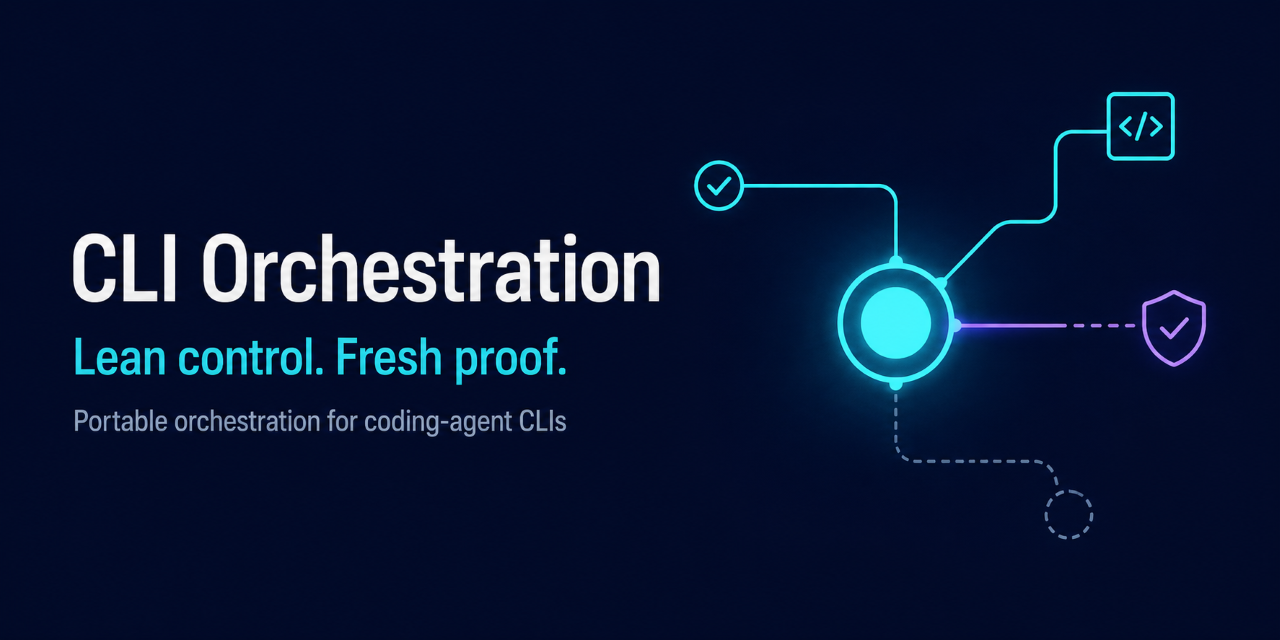
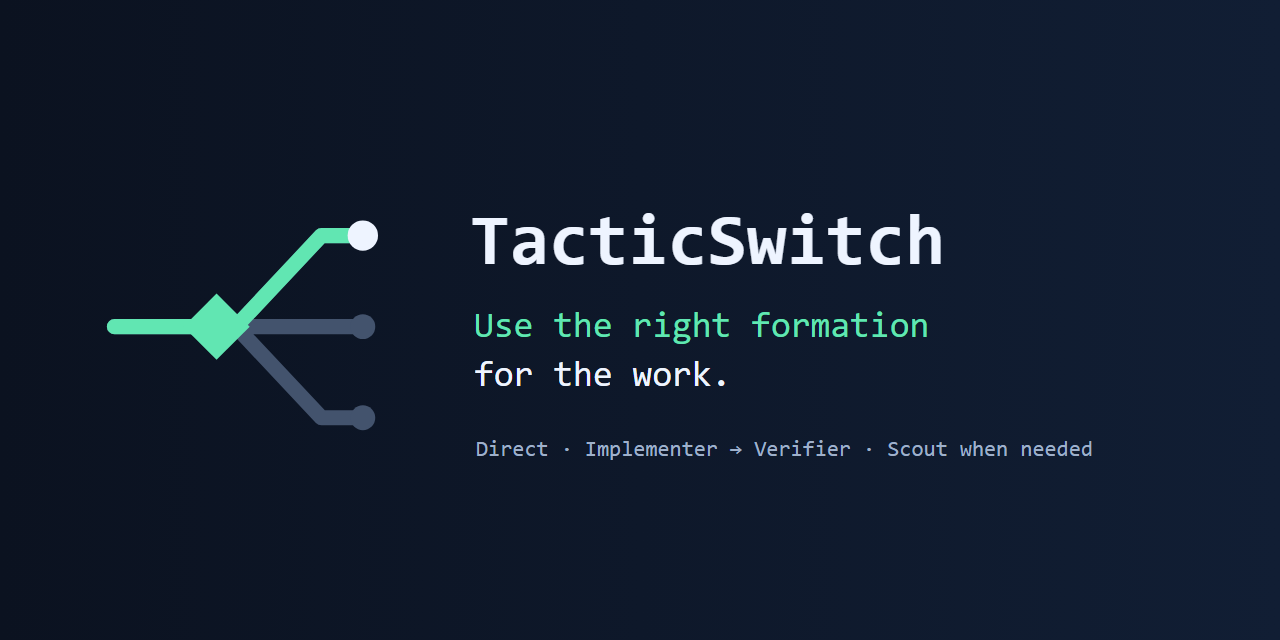
chore(brand): rebrand as TacticSwitch
Rename the public project identity and repository metadata while preserving version 2.0.0, public skill IDs, protocol compatibility, and the historical pre-rebrand release.

diff --git a/tests/test_release_surface.py b/tests/test_release_surface.py
@@ -35,8 +35,45 @@ class ReleaseSurfaceTests(unittest.TestCase):
             self.assertEqual(root.tag, "{http://www.w3.org/2000/svg}svg", svg.name)
             self.assertIn("viewBox", root.attrib, svg.name)
 
+    def test_public_identity_is_tacticswitch(self) -> None:
+        manifest = (ROOT / "manifest.json").read_text(encoding="utf-8")
+        self.assertIn('"name": "tacticswitch"', manifest)
+        for relative in ("README.md", "CONTRIBUTING.md", "docs/BRAND.md", "docs/LAUNCH.md"):
+            surface = (ROOT / relative).read_text(encoding="utf-8")
+            self.assertIn("TacticSwitch", surface, relative)
+        self.assertIn("github.com/gustavo-meilus/tacticswitch", (ROOT / "SECURITY.md").read_text(encoding="utf-8"))
+
+    def test_retired_identity_appears_only_in_explicit_history(self) -> None:
+        allowed = {
+            "CHANGELOG.md": [
+                "- Renamed the public project and package identity from CLI Orchestration to TacticSwitch while preserving public skill identifiers and protocol compatibility.",
+                "## 2.0.0 - 2026-08-20 — CLI Orchestration",
+                "## 1.0.0 - 2026-08-15 — CLI Orchestration",
+            ],
+            "docs/LAUNCH.md": [
+                "**Existing release:** `CLI Orchestration 2.0.0 — Lean control. Fresh proof.`",
+                "Tag `v2.0.0` and its GitHub release already exist as the historical pre-rebrand CLI Orchestration release. Preserve that tag, release, title, body, assets, and history unchanged.",
+            ],
+        }
+        surfaces = [
+            ROOT / relative for relative in (
+                "README.md", "CHANGELOG.md", "CONTRIBUTING.md", "SECURITY.md", "manifest.json",
+                ".github/ISSUE_TEMPLATE/bug.yml", "scripts/install.py",
+            )
+        ]
+        surfaces.extend(sorted((ROOT / "docs").glob("*.md")))
+        surfaces.extend(sorted((ROOT / "assets" / "brand").glob("*.svg")))
+        found = {}
+        for path in surfaces:
+            matches = [line for line in path.read_text(encoding="utf-8").splitlines() if "CLI Orchestration" in line]
+            if matches:
+                found[path.relative_to(ROOT).as_posix()] = matches
+        self.assertEqual(found, allowed)
+
     def test_readme_keeps_claim_limits_adjacent(self) -> None:
         readme = (ROOT / "README.md").read_text(encoding="utf-8")
+        self.assertIn("# TacticSwitch", readme)
+        self.assertIn("Use the right formation for the work.", readme)
         self.assertIn("all three adapters are **experimental**", readme)
         self.assertIn("does **not** compare completed route quality", readme)
         self.assertIn("Licensed under the [MIT License](LICENSE)", readme)

diff --git a/scripts/install.py b/scripts/install.py
@@ -230,7 +230,7 @@ def main() -> int:
                 for filename in NORMAL_AGENT_FILES:
                     write_owned_file(TEMPLATES / "codex/agents" / filename, tool_root / "agents" / filename, args.dry_run)
 
-    install_record = {"package": "cli-orchestration", "version": VERSION, "scope": args.scope, "tools": args.tools}
+    install_record = {"package": "tacticswitch", "version": VERSION, "scope": args.scope, "tools": args.tools}
     write_owned_bytes((json.dumps(install_record, indent=2) + "\n").encode(), root / ".orchestration/install.json", args.dry_run)
     print("Installation complete. Run scripts/verify_install.py with the same --scope/--tool selection.")
     return 0

diff --git a/scripts/run_route_benchmarks.py b/scripts/run_route_benchmarks.py
@@ -184,7 +184,7 @@ def main() -> int:
     if not codex:
         raise SystemExit("BLOCKED: codex CLI is unavailable")
     version = subprocess.run([codex, "--version"], text=True, capture_output=True, check=False).stdout.strip()
-    with tempfile.TemporaryDirectory(prefix="cli-orchestration-routes-") as temporary:
+    with tempfile.TemporaryDirectory(prefix="tacticswitch-routes-") as temporary:
         parent = Path(temporary)
         results = [run_route(codex, route, prompt, parent) for route, prompt in ROUTES.items()]
     payload = {

diff --git a/docs/LAUNCH.md b/docs/LAUNCH.md
@@ -2,41 +2,47 @@
 
 ## Repository metadata
 
-**Description:** Portable lean control plane for coding-agent CLIs. Direct by default; focused discovery and fresh verification only when the work justifies it.
+**Description:** Choose the minimum sufficient execution tactic for coding-agent work: direct by default, with focused discovery and fresh verification only when justified.
 
 **Topics:** `ai-agents`, `coding-agents`, `cli`, `codex-cli`, `claude-code`, `copilot-cli`, `multi-agent`, `orchestration`, `openspec`, `developer-tools`
 
 Leave homepage empty until a maintained project site exists. Export `assets/brand/social-preview.svg` to a visually inspected 1280×640 PNG, then upload it under **Settings → Social preview**; committing the source does not activate it. See [GitHub's social-preview guidance](https://docs.github.com/en/enterprise-cloud@latest/repositories/managing-your-repositorys-settings-and-features/customizing-your-repository/customizing-your-repositorys-social-media-preview).
 
-## Release copy
+## Existing historical release
 
-**Title:** `CLI Orchestration 2.0.0 — Lean control. Fresh proof.`
+**Existing release:** `CLI Orchestration 2.0.0 — Lean control. Fresh proof.`
 
-> CLI Orchestration 2.0.0 is a portable, lean control plane for coding-agent CLIs. Clear local work stays direct; material work can route through an Implementer and fresh Verifier; uncertain work can add a focused Scout. The core preserves OpenSpec and methodology ownership and fails closed when a required independent worker is unavailable. Codex, Claude Code, and Copilot CLI adapters are experimental. The current benchmark is one narrow Codex fixture, not a general performance or route-quality result.
+Tag `v2.0.0` and its GitHub release already exist as the historical pre-rebrand CLI Orchestration release. Preserve that tag, release, title, body, assets, and history unchanged.
 
-Do not create a release until final tests/checksums pass from the exact commit and repository settings are applied. [GitHub releases](https://docs.github.com/en/repositories/releasing-projects-on-github/about-releases) are tag-based deployable records.
+The TacticSwitch branding-only change keeps version `2.0.0` for package and protocol compatibility, but it creates no release or tag and does not bump the version. Any future release is a separate decision and must pass final tests/checksums from its exact commit before a new tag is created. [GitHub releases](https://docs.github.com/en/repositories/releasing-projects-on-github/about-releases) are tag-based deployable records.
 
 ## Announcement copy
 
 **Short post:**
 
-> Agent workflows often pay an orchestration tax: extra contexts, repeated reads, and review stages whether they help or not. CLI Orchestration uses the minimum sufficient topology—direct by default, fresh verification for material work, Scout only for real uncertainty. It is a portable control plane for Codex CLI, Claude Code, and Copilot CLI, with experimental adapters and honest fail-closed boundaries. I’d value feedback from maintainers on which task classes actually justify an extra context.
+> Agent workflows often use the wrong formation: one overloaded context or extra contexts, repeated reads, and review stages whether they help or not. TacticSwitch selects the minimum sufficient tactic—direct by default, fresh verification for material work, Scout only for real uncertainty. It is a portable control plane for Codex CLI, Claude Code, and Copilot CLI, with experimental adapters and honest fail-closed boundaries. I’d value feedback from maintainers on which task classes actually justify an extra context.
 
 **Long-form opening:**
 
-> I built CLI Orchestration after seeing agent workflows optimize for either one overloaded context or a mandatory committee pipeline. Clear local work stays direct; material behavior changes use one Implementer and a fresh Verifier; a Scout appears only when discovery can prevent churn. It is deliberately a pure control plane, so OpenSpec, TDD, or another task system keeps owning the development method. The adapters are experimental, and the current real benchmark is narrow: direct mode completed one Codex fixture while orchestrated routes failed closed when collaboration threads were unavailable. I’m looking for reproducible field evidence, especially cases where fresh verification changes the outcome.
+> I built TacticSwitch after seeing agent workflows optimize for either one overloaded context or a mandatory committee pipeline. Clear local work stays direct; material behavior changes use one Implementer and a fresh Verifier; a Scout appears only when discovery can prevent churn. It is deliberately a pure control plane, so OpenSpec, TDD, or another task system keeps owning the development method. The adapters are experimental, and the current real benchmark is narrow: direct mode completed one Codex fixture while orchestrated routes failed closed when collaboration threads were unavailable. I’m looking for reproducible field evidence, especially cases where fresh verification changes the outcome.
 
-## Manual publication checklist
+## Rebrand checklist
 
 - [x] Add the [MIT License](../LICENSE) with SPDX-standard license text.
-- [x] Publish the public repository at [gustavo-meilus/cli-orchestration](https://github.com/gustavo-meilus/cli-orchestration) with the description and focused [topics](https://docs.github.com/en/repositories/managing-your-repositorys-settings-and-features/customizing-your-repository/classifying-your-repository-with-topics).
+- [x] Publish the renamed public repository at [gustavo-meilus/tacticswitch](https://github.com/gustavo-meilus/tacticswitch) with the documented description and focused [topics](https://docs.github.com/en/repositories/managing-your-repositorys-settings-and-features/customizing-your-repository/classifying-your-repository-with-topics).
 - [x] Enable private vulnerability reporting and link the private report form from `SECURITY.md`.
 - [ ] Export/upload the social preview and verify a shared-link preview.
 - [x] Set `main` as default; block force-pushes and deletion; require linear history and resolved review conversations; disable Wiki and Projects.
-- [ ] Run full tests and `python scripts/checksums.py --verify` from the exact release commit.
+- [x] Validate the exact rebrand commit with the full test suite and `python scripts/checksums.py --verify`.
+- [x] Confirm every adapter label matches `manifest.json`.
+
+## Release checklist
+
 - [ ] Test README installation commands in a clean temporary repository.
-- [ ] Confirm every adapter label matches `manifest.json`.
-- [ ] Tag `v2.0.0` and create the release only after all blockers pass.
+- [ ] For a future release, choose its version and create the matching new tag and release only after all blockers pass.
+
+## Post-launch checklist
+
 - [ ] Publish channel-specific posts with the real release URL and one specific evidence request.
 - [ ] Watch first-user install failures, documentation gaps, and worker-availability reports.
 

diff --git a/docs/BRAND.md b/docs/BRAND.md
@@ -2,21 +2,21 @@
 
 ## Brand core
 
-**Name:** CLI Orchestration. Keep `cli-orchestration` and the public skill identifiers unchanged.
+**Name:** TacticSwitch. Use `tacticswitch` for the repository and package identity. Keep the public skill identifiers unchanged for compatibility.
 
-**Tagline:** **Lean control. Fresh proof.**
+**Tagline:** **Use the right formation for the work.**
 
-**Positioning:** CLI Orchestration is a portable control plane for maintainers using coding-agent CLIs that adds only the independent model contexts a task materially needs, without replacing the development framework or turning every change into a committee pipeline.
+**Positioning:** TacticSwitch is a portable control plane for maintainers using coding-agent CLIs that selects the minimum sufficient execution tactic and adds only the independent model contexts a task materially needs, without replacing the development framework or turning every change into a committee pipeline.
 
 **Audience/job:** Maintainers who want fresh verification or focused discovery for material agent work, but want clear local work to stay direct.
 
-**Named failure:** **orchestration tax**—duplicate repository reads, handoffs, model turns, and conflict risk that do not materially improve the result.
+**Named failure:** **formation mismatch**—using the same execution shape for every task, either overloading one context or adding duplicate reads, handoffs, model turns, and conflict risk that do not materially improve the result.
 
 **Voice:** calm, exact, economical, evidence-led. Prefer “routes,” “records,” and “fails closed” over “revolutionizes,” “guarantees,” or “autonomous.” Put limitations in the same paragraph or table row as the claim.
 
 ## Visual system
 
-The mark is one calm control node routing only necessary paths. Mint paths are selected work; slate paths are available but deliberately unused; the light endpoint represents fresh verification.
+The mark is a tactical switch selecting one necessary route from several possible formations. Mint is the selected route; slate paths are available but deliberately unused; the light endpoint represents fresh verification. The angled switch and route geometry connect the identity to the product mechanism without using military insignia or combat imagery.
 
 | Token | Value | Use |
 |---|---|---|
@@ -40,4 +40,4 @@ Use deterministic SVG sources from `assets/brand/`. Preserve generous padding an
 | Orchestrated routes fail closed | Raw benchmark | One environment without collaboration threads | “In the recorded run, B/C returned `BLOCKED` without direct fallback.” |
 | Release assets are reproducible | `MANIFEST.sha256` verification | Integrity is not authenticity or native compatibility | “A deterministic checksum manifest covers the release surface.” |
 
-Never shorten `experimental` to “supported,” describe the benchmark as a completed route-quality comparison, imply parallel writes are conflict-free, or call the repository open source before a license is added.
+Never shorten `experimental` to “supported,” describe the benchmark as a completed route-quality comparison, or imply parallel writes are conflict-free.

diff --git a/README.md b/README.md
@@ -1,21 +1,21 @@
-<p align="center"><img src="assets/brand/hero.svg" width="760" alt="CLI Orchestration — Lean control. Fresh proof. A central control node routes work only to necessary execution and verification paths."></p>
+<p align="center"><img src="assets/brand/hero.svg" width="760" alt="TacticSwitch — Use the right formation for the work. A switch selects the minimum sufficient execution route."></p>
 
-# CLI Orchestration
+# TacticSwitch
 
-**Lean control. Fresh proof.**
+**Use the right formation for the work.**
 
-A portable, CLI-neutral control plane for development work that is too risky or uncertain for one model context—and no ceremony for work that is not. It brings one lean routing contract to Codex CLI, Claude Code, and GitHub Copilot CLI without replacing your methodology or task system.
+A portable, CLI-neutral control plane that chooses the minimum sufficient execution tactic for each development task. Clear local work stays direct; material or uncertain work gets only the independent contexts it needs. TacticSwitch brings that lean routing contract to Codex CLI, Claude Code, and GitHub Copilot CLI without replacing your methodology or task system.
 
 [Quick start](#quick-start) · [Routing](#how-it-routes) · [Evidence](#proof-with-boundaries) · [Compatibility](#compatibility) · [Docs](#go-deeper) · [Contributing](CONTRIBUTING.md)
 
 > [!IMPORTANT]
 > Release 2.0.0 is ready for evaluation, not a claim of production-proven multi-CLI support; all three adapters are **experimental**. The only recorded route benchmark is a narrow Codex fixture, and its orchestrated routes were blocked by unavailable collaboration threads.
 
-## Stop paying the orchestration tax on every task
+## Stop using one formation for every task
 
 Agent workflows often choose between one overloaded context—including self-review—or a committee of fresh agents for every change. The first weakens independence; the second multiplies reads, handoffs, latency, tokens, and conflict risk.
 
-CLI Orchestration uses the **minimum sufficient topology**:
+TacticSwitch uses the **minimum sufficient topology**:
 
 ```text
 clear + local + low risk                → direct execution

diff --git a/SECURITY.md b/SECURITY.md
@@ -6,8 +6,8 @@ Before the first public release, only current `main` is considered for security 
 
 ## Reporting a vulnerability
 
-Do not open a public issue. Use **Report a vulnerability** on the repository Security tab, or open the [private vulnerability report form](https://github.com/gustavo-meilus/cli-orchestration/security/advisories/new) directly.
+Do not open a public issue. Use **Report a vulnerability** on the repository Security tab, or open the [private vulnerability report form](https://github.com/gustavo-meilus/tacticswitch/security/advisories/new) directly.
 
 Include the affected version/commit, impact, reproduction steps, and suggested mitigation. The acknowledgement target is seven days; this is not a remediation guarantee.
 
-Private vulnerability reports are visible only to repository maintainers until they coordinate disclosure. GitHub documents the process in [Privately reporting a security vulnerability](https://docs.github.com/en/code-security/security-advisories/working-with-repository-security-advisories/privately-reporting-a-security-vulnerability).
+Private vulnerability reports are visible only to repository maintainers until they coordinate disclosure. GitHub documents the process in [Repository security advisories](https://docs.github.com/en/code-security/concepts/vulnerability-reporting-and-management/repository-security-advisories).

diff --git a/CHANGELOG.md b/CHANGELOG.md
@@ -1,6 +1,11 @@
 # Changelog
 
-## 2.0.0 - 2026-08-20
+## Unreleased
+
+- Renamed the public project and package identity from CLI Orchestration to TacticSwitch while preserving public skill identifiers and protocol compatibility.
+- Preserved the existing `v2.0.0` tag and release as pre-rebrand history; this branding change creates no release, tag, or version bump.
+
+## 2.0.0 - 2026-08-20 — CLI Orchestration
 
 - Replaced the mandatory six-role default with adaptive direct, read-only, Implementer → Verifier, and Scout → Implementer → Verifier routes.
 - Preserved a pure primary control plane whenever orchestration is active.
@@ -16,6 +21,6 @@
 
 Superseded. Required the six-role pure-orchestrator workflow and introduced portable adapters/state v1.
 
-## 1.0.0 - 2026-08-15
+## 1.0.0 - 2026-08-15 — CLI Orchestration
 
 Initial Codex/OpenSpec orchestration package.

diff --git a/CONTRIBUTING.md b/CONTRIBUTING.md
@@ -1,6 +1,6 @@
 # Contributing
 
-Thanks for helping make CLI Orchestration smaller, more portable, and better evidenced.
+Thanks for helping make TacticSwitch smaller, more portable, and better evidenced.
 
 ## Before opening a change
 
@@ -26,4 +26,4 @@ Keep one coherent responsibility per pull request. Explain the user problem, aut
 
 By participating, follow [CODE_OF_CONDUCT.md](CODE_OF_CONDUCT.md). Report vulnerabilities through [SECURITY.md](SECURITY.md), not a public issue.
 
-> This repository has no license yet. Contributions should not be solicited or merged for a public launch until the maintainer selects one and confirms contribution terms.
+Contributions are accepted under the repository's [MIT License](LICENSE).

diff --git a/docs/OPENSPEC-INTEGRATION.md b/docs/OPENSPEC-INTEGRATION.md
@@ -1,6 +1,6 @@
 # OpenSpec Integration
 
-OpenSpec owns proposal, specifications, design, tasks, apply, verification, sync, archive, and `.agents/skills/openspec-*`. CLI Orchestration owns only route selection, context assignment, dependency/ownership coordination, and route acceptance.
+OpenSpec owns proposal, specifications, design, tasks, apply, verification, sync, archive, and `.agents/skills/openspec-*`. TacticSwitch owns only route selection, context assignment, dependency/ownership coordination, and route acceptance.
 
 ## Routes
 
